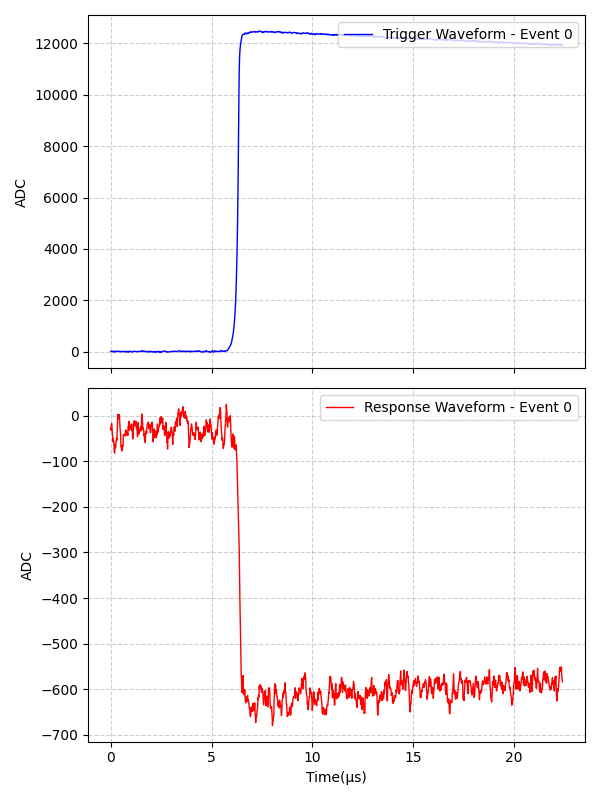
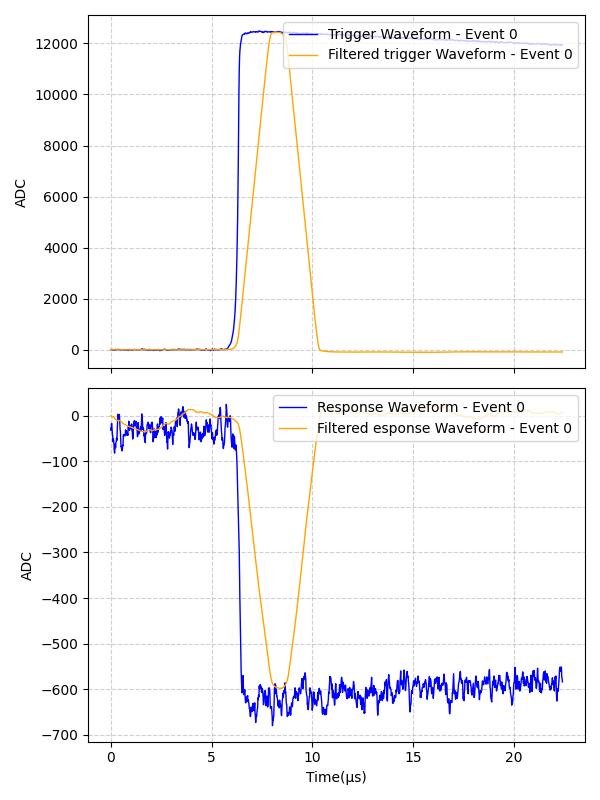
Before any new changes that happen after Japan trip

diff --git a/misc_scripts/raw_waveform.py b/misc_scripts/raw_waveform.py
@@ -7,6 +7,26 @@ from lgdo import lh5
 from pathlib import Path
 from xtc_utils import files_and_chnid, relevant_events
 
+def trapezoidal_filter(x, T, G):
+    # moving sum (integral)
+    cumsum = np.cumsum(x)
+    
+    # helper to safely subtract cumsums
+    def window_sum(a, b):
+        if b >= 0:
+            return cumsum[b] - (cumsum[a] if a >= 0 else 0)
+        else:
+            return 0
+    
+    y = np.zeros_like(x)
+    
+    for i in range(len(x)):
+        s1 = window_sum(i-T, i)
+        s2 = window_sum(i-T-G, i-G)
+        y[i] = s1 - s2
+    
+    return y / T
+
 parser = argparse.ArgumentParser()
 parser.add_argument(
     "j1", 
@@ -39,6 +59,13 @@ for path in new_hit_list:
     raw_path = raw_dir + raw_file
     raw_list.append(raw_path)
 print("raw data file list construction is complete.")
+
+# Test purpose - simply trying to get an example waveform
+raw_list = raw_list[0:2]
+new_hit_list = new_hit_list[0:2]
+print(raw_list)
+
+
 
 """
 print(f"Checking {len(new_hit_list)} file pairs for event count consistency...")
@@ -75,6 +102,8 @@ else:
 
 raw_id_1 = chn_id[j1]
 raw_id_2 = chn_id[j2]
+print(f"response channel name: {raw_id_1}")
+print(f"response channel name: {raw_id_2}")
 
 if raw_id_1 in skipped_channels:
     print(f"Trigger channel j1={j1} (raw {raw_id_1}) is in skipped_channels; Change a trigger channel.")
@@ -87,22 +116,24 @@ if raw_id_1 == raw_id_2:
     sys.exit(0)
 
 #Trigger channel event extraction
-try:
-    energy_1, idxs = relevant_events(
-        table_path=f"ch{raw_id_1}/hit/",
-        files=new_hit_list,
-        ene_dataset="cuspEmax_ctc_cal",
-        flag_datasets=["is_discharge", "is_valid_0vbb_old"],
-        conditions={"is_discharge": False, "is_valid_0vbb_old": True},
-        energy_range=(1500, 4500),
-        return_index=True
-    )
+energy_1, idxs = relevant_events(
+    table_path=f"ch{raw_id_1}/hit/",
+    files=new_hit_list,
+    ene_dataset="cuspEmax_ctc_cal",
+    flag_datasets=["is_discharge", "is_valid_0vbb_old"],
+    conditions={"is_discharge": False, "is_valid_0vbb_old": True},
+    energy_range=(1500, 4500),
+    return_index=True
+)
     # trapTmax_1 = lh5.read(f"ch{raw_id_1}/dsp/trapTmax", new_dsp_list, idx=idxs).nda
-    print("Trigger channel event extraction complete.")
-    trig_extract_complete = True
+print("Trigger channel event extraction complete.")
+trig_extract_complete = True
+"""
 except Exception as e:
     print(f"Exception occurred at trigger channel {j1} extraction: {e}")
     trig_extract_complete = False
+
+"""
 
     
 energy_2 = lh5.read(f"ch{raw_id_2}/hit/cuspEmax_ctc_cal", new_hit_list, idx=idxs).nda
@@ -110,6 +141,8 @@ print("response channel energy extraction complete.")
 secondary_selection = (energy_2 < 100)
 secondary_idxs = idxs[secondary_selection]
 print("secondary selection complete.")
+
+print(f"Example Index: {secondary_idxs[0]}")
 
 table_1 = lh5.read(f"ch{raw_id_1}/raw/", raw_list, idx=secondary_idxs, field_mask=["waveform_windowed","baseline"])
 table_2 = lh5.read(f"ch{raw_id_2}/raw/", raw_list, idx=secondary_idxs, field_mask=["waveform_windowed","baseline"])
@@ -121,6 +154,8 @@ raw_waveform_1 = raw_waveform_table_1.values.nda
 raw_waveform_2 = raw_waveform_table_2.values.nda
 
 print(f"Generating plots for {len(raw_waveform_1)} events...")
+T = 100
+G = 150
 
 for i in range(len(raw_waveform_1)):
     if i > 5:
@@ -128,6 +163,8 @@ for i in range(len(raw_waveform_1)):
     # Extract specific waveforms for this event
     adc_1 = raw_waveform_1[i] - np.full(len(raw_waveform_1[i]),baseline_1[i])
     adc_2 = raw_waveform_2[i] - np.full(len(raw_waveform_2[i]),baseline_2[i])
+    trap_1 = trapezoidal_filter(adc_1, T, G)
+    trap_2 = trapezoidal_filter(adc_2, T, G)
     
     # Create x-axis (sample indices)
     x = np.linspace(0, 0.016*len(adc_1) ,len(adc_1))
@@ -138,12 +175,14 @@ for i in range(len(raw_waveform_1)):
     
     # Plot first waveform (e.g., from raw_waveform_1)
     ax1.plot(x, adc_1, label=f"Trigger Waveform - Event {i}", color="blue", linewidth=1)
+    ax1.plot(x, trap_1, label=f"Filtered trigger Waveform - Event {i}", color="orange", linewidth=1)
     ax1.set_ylabel("ADC")
     ax1.legend(loc="upper right")
     ax1.grid(True, linestyle="--", alpha=0.6)
     
     # Plot second waveform (e.g., from raw_waveform_2)
-    ax2.plot(x, adc_2, label=f"Response Waveform - Event {i}", color="red", linewidth=1)
+    ax2.plot(x, adc_2, label=f"Response Waveform - Event {i}", color="blue", linewidth=1)
+    ax2.plot(x, trap_2, label=f"Filtered esponse Waveform - Event {i}", color="orange", linewidth=1)
     ax2.set_ylabel("ADC")
     ax2.set_xlabel("Time(μs)")
     ax2.legend(loc="upper right")

diff --git a/scripts/fit_inspector.py b/scripts/fit_inspector.py
@@ -53,6 +53,8 @@ for j1 in range(101):
         if reason not in scenarios:
             scenarios.add(reason)
         neg_xtalk_matrix[j1,j2] = mu
+        if neg_xtalk_matrix[j1,j2] < -2:
+            print(f"neg xtalk value for {(j1,j2)} is {neg_xtalk_matrix[j1,j2]}")
         if reason == actual_reason:
             if raw_id_1 not in skipped_channels and raw_id_2 not in skipped_channels:
                 if raw_id_1 != raw_id_2:
@@ -67,6 +69,8 @@ for j1 in range(101):
         if reason not in scenarios:
             scenarios.add(reason)
         pos_xtalk_matrix[j1,j2] = mu
+        if pos_xtalk_matrix[j1,j2] > 0.05:
+            print(f"pos xtalk value for {(j1,j2)} is {pos_xtalk_matrix[j1,j2]}")
         if reason == actual_reason:
             if raw_id_1 not in skipped_channels and raw_id_2 not in skipped_channels:
                 if raw_id_1 != raw_id_2:
